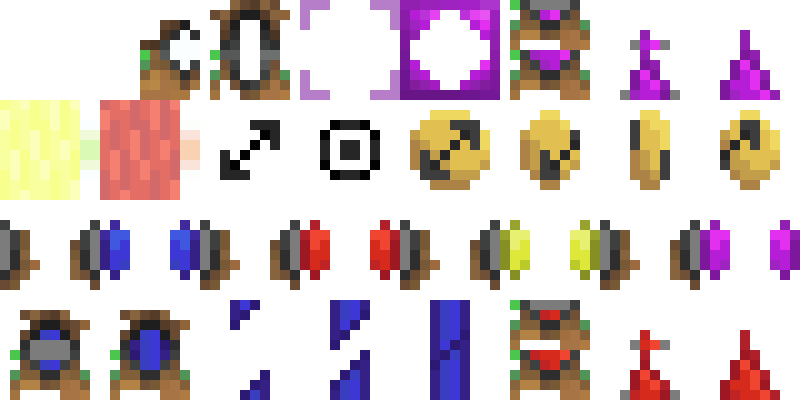
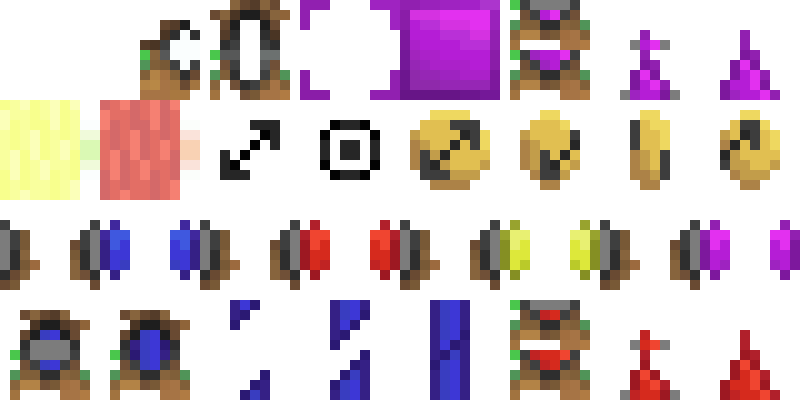
Physics of the game is officially exactly 99% done. on/off block glitch left to fix

Changed region(s): [[0.375, 0.0, 0.625, 0.27], [0.375, 0.18, 0.4062, 0.27]]

diff --git a/world.js b/world.js
@@ -47,7 +47,10 @@ let avatar = {
     physics: function () { // PHYSICS
         clear(5, this.coor);
         let key = [((!this.keys[3] || this.keys[1]) && !this.bFrame[1]) ? this.keys[2] - this.keys[0] : 0, (this.keys[3] > this.keys[1]) ? -1 : this.keys[1]]; // [x, y] values: -1, 0, 1
-        if (this.bFrame[1] == -1) key = [0, 0, 0, 0];
+        if (this.bFrame[1] == -1) {
+            key = [0, 0, 0, 0];
+            this.bFrame[1] = 0;
+        }
 
         // [Xleft, Xright, Ytop, Ybottom]
         let beforeInPixels = [this.coor[0] + pixel * 2, this.coor[0] + (this.box[0] + 1) * pixel, this.coor[1] + 2.99 * pixel, this.coor[1] + (this.box[1] + 2.99) * pixel];
@@ -172,7 +175,8 @@ let avatar = {
 
         // -1: no clip. 
         let spots = [[before[0], before[2]], [before[1], before[2]], [before[0], before[3]], [before[1], before[3]]];
-        let clipped = XOR([isS(spots[0], true, false), isS(spots[1], true, false), isS(spots[2], true, false), isS(spots[3], true, false)]);
+        let solid = [isS(spots[0], true, false), isS(spots[1], true, false), isS(spots[2], true, false), isS(spots[3], true, false)];
+        let clipped = XOR(solid);
         if (clipped !== -1) {
             console.log("You've corner-clipped!");
             //this.drawTempSquares([[Math.floor((this.coor[0] + (this.box[0] / 2 + 1) * pixel) / unit), Math.floor((this.coor[1] + (this.box[1] + 2.99) * pixel) / unit)]], "#1515ff", 0.9);
@@ -184,6 +188,16 @@ let avatar = {
                 this.coor[1] = centerCo[1] * unit - 2 * pixel;
             } else { // downwards clip
                 this.coor[1] = centerCo[1] * unit - unit;
+            }
+        } else {
+            // Get stuck in a block if your center is inside it!
+            let center = [Math.floor((beforeInPixels[0] + beforeInPixels[1]) / 2 / unit), Math.floor((beforeInPixels[2] + beforeInPixels[3]) / 2 / unit)];
+
+            if (center[0] >= 0 && center[0] < width && center[1] >= 0 && center[1] < height) {
+                if (currentLevel[center[1]][center[0]] == 1) {
+                    console.log("GET STUCK");
+                    this.bFrame = [0, -1, center[0]];
+                }
             }
         }
 
@@ -223,14 +237,12 @@ let avatar = {
                         avatar.coor[0] = (Math.floor(avatar.coor[0] / unit) + (avatar.box[0] - 0.01) / 10) * unit;
                     }
                 }
-                // do nothing for on/off blocks; it should be automatic
+                // do nothing for on/off blocks; it's automatic
             });
         });
         if (trapped == -1) {
-            this.bFrame[1] = trapped; // -1 for trapped, 0 for normal
+            this.bFrame[1] = -1; // -1 for trapped, 0 for normal
             this.bFrame[0] = 0;
-        } else if (this.bFrame[1] == -1) {
-            this.bFrame[1] = 0;
         }
         this.draw(a);
     }
@@ -360,6 +372,7 @@ let Lazer = class {
         }
     }
     update (button) {
+        if (!this.onScreen) return;
         // use "button" to figure everything out!! update this.onScreen.
         let info = button.memory[(!button.appear || !this.onScreen) ? 0 : Math.floor(frame / GFuel) - button.first];
 
@@ -376,7 +389,7 @@ let Lazer = class {
         }
     }
     collide (x, y, newX, beforeIP) { // avatar's, in actual pixels
-        if (!this.active) return;
+        if (!this.active || !this.onScreen) return;
         if (this.type == "Swap") {
             if (Math.sign(x - (this.location[0] + 0.5) * unit) !== Math.sign(newX - (this.location[0] + 0.5) * unit)) {
                 console.log("cross X!");
@@ -419,6 +432,7 @@ let Spikes = class {
         }
     }
     update (button) {
+        if (!this.onScreen) return;
         let info = button.memory[(!button.appear || !this.onScreen) ? 0 : Math.floor(frame / GFuel) - button.first];
 
         for (let s = 0; s < this.spikes.length; s++) {
@@ -441,6 +455,7 @@ let Spikes = class {
         }
     }
     collide (beforeIP) {
+        if (!this.onScreen) return;
         // run the collisions
         for (let s = 0; s < this.spikes.length; s++) {
             let ss = this.spikes[s];
@@ -470,15 +485,16 @@ let Walls = class {
         let c = (simple) ? ctx.length - 1 : 2; // canvas index
         let m = (simple) ? unit * 0.32 : unit; // size multiplier
 
-        for (let s = 0; s < this.walls.length; s++) {
-            ctx[c].drawImage(img[3], this.walls[s][2] * 100, 300, 100, 50, Math.round(this.walls[s][0] * m), Math.round((this.walls[s][1] - 0.5) * m), m, m / 2);
-            ctx[c].drawImage(img[3], this.walls[s][2] * 100, 350, 100, 50, Math.round(this.walls[s][0] * m), Math.round((this.walls[s][1] + 1) * m), m, m / 2);
-            if (this.walls[s][2]) {
-                ctx[c].drawImage(img[3], 400, 300, 100, 100, this.walls[s][0] * m, this.walls[s][1] * m, m, m);
+        for (let w = 0; w < this.walls.length; w++) {
+            ctx[c].drawImage(img[3], this.walls[w][2] * 100, 300, 100, 50, Math.round(this.walls[w][0] * m), Math.round((this.walls[w][1] - 0.5) * m), m, m / 2);
+            ctx[c].drawImage(img[3], this.walls[w][2] * 100, 350, 100, 50, Math.round(this.walls[w][0] * m), Math.round((this.walls[w][1] + 1) * m), m, m / 2);
+            if (this.walls[w][2]) {
+                ctx[c].drawImage(img[3], 400, 300, 100, 100, this.walls[w][0] * m, this.walls[w][1] * m, m, m);
             }
         }
     }
     update (button) {
+        if (!this.onScreen) return;
         let info = button.memory[(!button.appear || !this.onScreen) ? 0 : Math.floor(frame / GFuel) - button.first];
 
         for (let s = 0; s < this.walls.length; s++) {
@@ -499,6 +515,7 @@ let Walls = class {
     }
     collide (beforeIP) {
         // run the collisions
+        if (!this.onScreen) return;
         for (let w = 0; w < this.walls.length; w++) {
             let ww = this.walls[w];
             let points = [[(ww[0] + 0.3) * unit, (ww[1] + 0.5) * unit], [(ww[0] + 0.7) * unit, (ww[1] + 0.5) * unit], [(ww[0] + 0.5) * unit, (ww[1] + 0.5) * unit]];
@@ -512,16 +529,48 @@ let Walls = class {
                 } else if (collides[0]) {
                     return [1, ww[0]];
                 }
-                /*if (collides[0] && !collides[1]) {
-                    return [1, ww[0]];
-                } else if (collides[1] && !collides[0]) {
-                    return [2, ww[0]];
-                } else if (collides[2]) {
-                    return [3, ww[0]];
-                }*/
             }
         }
         return [0, avatar.bFrame[2]];
+    }
+}
+
+let Blocks = class {
+    constructor (blocks) {
+        this.blocks = blocks.map((info) => [...info, info[2]]);
+        // [x, y, natural, currState]
+        this.type = "Block";
+        this.onScreen = false;
+    }
+    activate (activate = true, simple = false) {
+        this.onScreen = activate;
+        if (activate) this.draw(simple);
+    }
+    draw (simple = false) {
+        if (!this.onScreen) return;
+        let c = (simple) ? ctx.length - 1 : 2; // canvas index
+        let m = (simple) ? unit * 0.32 : unit; // size multiplier
+
+        for (let b = 0; b < this.blocks.length; b++) {
+            ctx[c].drawImage(img[3], this.blocks[b][2] * 100 + 300, 0, 100, 100, Math.round(this.blocks[b][0] * m), Math.round(this.blocks[b][1] * m), m, m);
+        }
+    }
+    update (button) {
+        if (!this.onScreen) return;
+        let info = button.memory[(!button.appear || !this.onScreen) ? 0 : Math.floor(frame / GFuel) - button.first];
+
+        for (let s = 0; s < this.blocks.length; s++) {
+            let block = this.blocks[s];
+            block[3] = (info[1] > 0 == (block[2] != true));
+            if (block[3]) {
+                currentLevel[block[1]][block[0]] = 1;
+            } else {
+                currentLevel[block[1]][block[0]] = levels.levels[levels.currentLevel][block[1]][block[0]];
+            }
+
+            ctx[2].clearRect(block[0] * unit, block[1] * unit, unit, unit);
+            ctx[2].drawImage(img[3], (block[3]) ? 400 : 300, 0, 100, 100, Math.round(this.blocks[s][0] * unit), Math.round(this.blocks[s][1] * unit), unit, unit);
+        }
     }
 }
 
@@ -530,7 +579,7 @@ let Walls = class {
 let Button = class {
     constructor (type, coor, side/* 0-left 1-right */, objects, noButton = false) {
         this.type = type;
-        // 0-wall 1-spike/deathLazer 2-swapLazer 3-spike/onOffBlocks
+        // 0-walls 1-spike/deathLazer 2-swapLazer 3-spike/onOffBlocks
         this.coor = coor;
         this.spot = [(coor[0] + 0.2 + (side * -1 + 1) * 0.6) * unit, (coor[1] + 0.2) * unit, (coor[1] + 0.8) * unit];
         // [X, Ytop, Ybottom], in pixels, used for collisions

diff --git a/map.js b/map.js
@@ -20,9 +20,10 @@ function semisolid(x, y, l) { // finds whether a 0 is a semisolid support
 function between([a, b], num) {
     return num >= Math.min(a, b) && num <= Math.max(a, b);
 }
-function isS([x, y], nonSemi = false, hor = false, l = currentLevel) { // is solid???
+function isS([x, y], nonSemi = false, hor = false, l = currentLevel, block = false) { // is solid???
     // nonSemi = true --> don't collide with semis.
     // hor = true --> do collide horizontally.
+    // block = true --> don't collide with 1.5s
     let outside = false;
     if (x < 0 || x >= width || y < 0 || y >= height) {
         if (hor && (y < 0 || y >= height) && (x < 0 || x >= width)) return true;
@@ -34,7 +35,7 @@ function isS([x, y], nonSemi = false, hor = false, l = currentLevel) { // is sol
     }
 
     if (nonSemi) return (l[y][x] == 1 || (l[y][x] == 1.5 && !outside));
-    else return (l[y][x] >= 1 && l[y][x] <= 2 && (l[y][x] != 1.5 || !outside));
+    else return (l[y][x] >= 1 && l[y][x] <= 2 && (l[y][x] != 1.5 || !outside) && !block);
 }
 function isGoalY([yt, yb]) { // checks if the character is in the goal y-values
     let yg = levels.exits[levels.currentLevel]; // y-goal
@@ -381,7 +382,7 @@ levels.addLevel([
     new Button(
         3, [2, 10], 0,
         [
-            new Walls([[6, 10, 0], [7, 10, 1], [10, 8, 0], [14, 10, 1]])
+            new Blocks([[6, 10, 1], [7, 10, 1], [10, 8, 0], [14, 10, 1]])
         ]
     )
 ]
